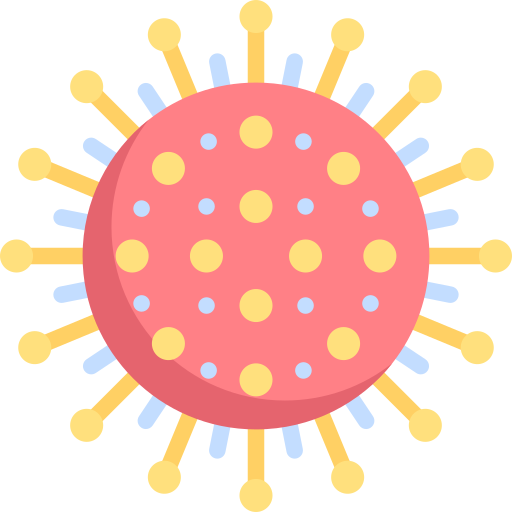
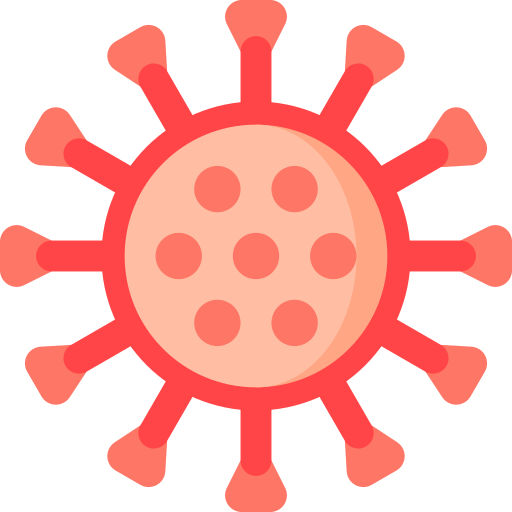
9

diff --git a/fetch/practica4.html b/fetch/practica4.html
@@ -18,7 +18,7 @@
         padding: 0;
       }
       body{
-            background-color:lightblue;
+            background-color:lightgoldenrodyellow;
         }
     </style>
   </head>
@@ -74,13 +74,13 @@
                                 if(registro.country==marcador.CountryName){
                                     var image = {
                                             url: 'covid-19.png', //ruta de la imagen
-                                            scaledSize: new google.maps.Size(50, 50), //tamaño de la imagen
+                                            scaledSize: new google.maps.Size(30, 30), //tamaño de la imagen
                                             origin: new google.maps.Point(0,0), //origen de la iamgen
                                             //el ancla de la imagen, el punto donde esta marcando, en nuestro caso el centro inferior.
                                             anchor: new google.maps.Point(0, 0) 
                                     };
 
-                                    var información = "<strong>País:</strong> "+ registro.country +"<br><strong>Casos:</strong> " + registro.cases + "<br><strong>Nuevos hoy:</strong> " + registro.todayCases + "<br><strong>Muertes:</strong> " + registro.deaths + "<br><strong>Muertes Hoy:</strong> " + registro.todayDeaths + "<br><strong>Recuperados:</strong> " + registro.recovered + "<br><strong>Activos:</strong> " + registro.active + "<br><strong>Críticos:</strong> " + registro.critical + "<br><strong>Casos por millón:</strong> " + registro.casesPerOneMillion;
+                                    var información = "<h2>País:</h2> "+ registro.country +"<br><strong>Casos:</strong> " + registro.cases + "<br><strong>Nuevos hoy:</strong> " + registro.todayCases + "<br><strong>Muertes:</strong> " + registro.deaths + "<br><strong>Muertes Hoy:</strong> " + registro.todayDeaths + "<br><strong>Recuperados:</strong> " + registro.recovered + "<br><strong>Activos:</strong> " + registro.active + "<br><strong>Críticos:</strong> " + registro.critical + "<br><strong>Casos por millón:</strong> " + registro.casesPerOneMillion;
 
                                     var infowindow = new google.maps.InfoWindow({
                                         content: información
